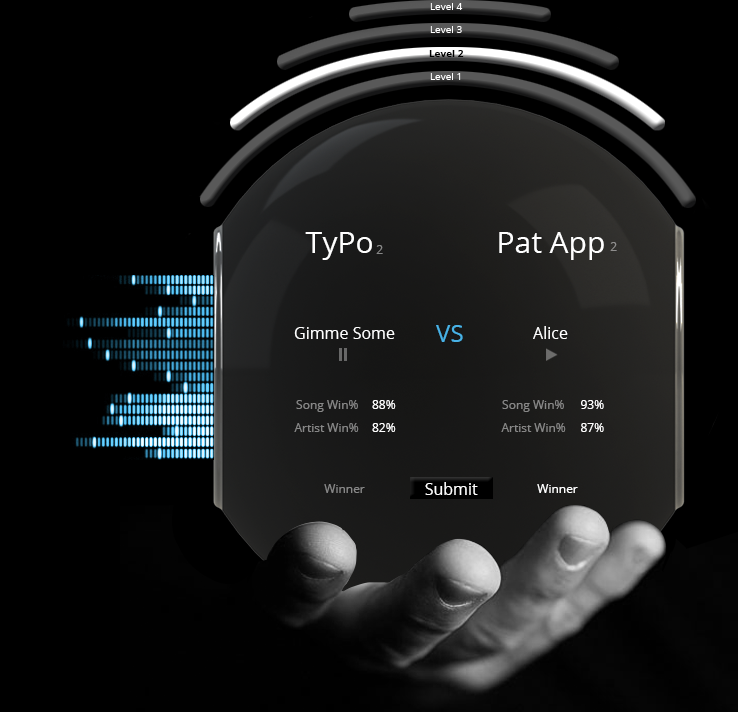
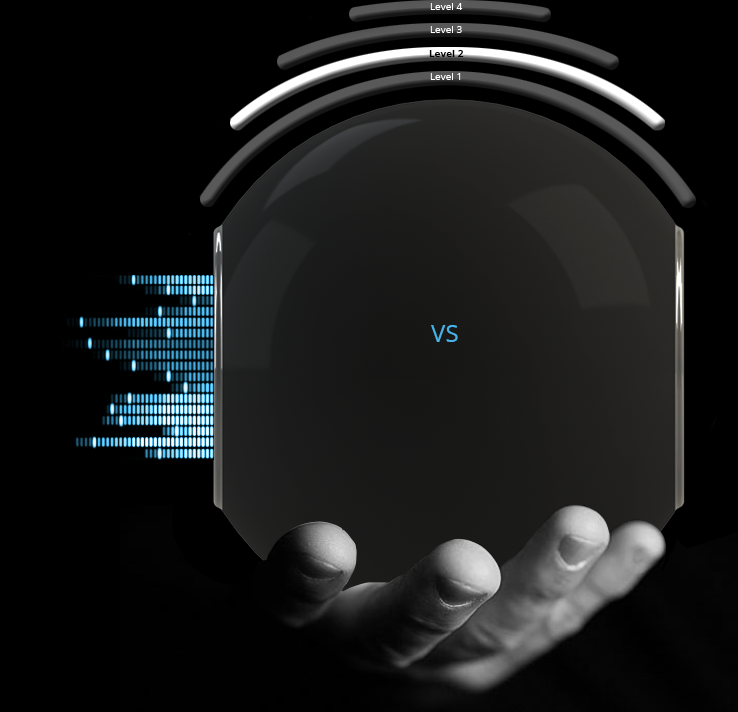
matchup back is in

diff --git a/templates/matchups.html b/templates/matchups.html
@@ -1,9 +1,11 @@
 {% extends "app.html" %}
 
 {% block content %}
+<div id='matchups'>
 	<div id='songbay' value='0'></div>
 
 	<div id='matchupsui'>
+		<img src='/images/matchupback.png' alt='...'>
 		<table>
 			<tr id='artistnames'>
 				<td id='aname1' class='aname'>A Name 1</td>
@@ -12,13 +14,13 @@
 			</tr>
 			<tr>
 				<td id='songname1' class='songname'>songname1</td>
-				<td>VS</td>
+				<td style='color:#03b1e9;text-align:center;padding:0 10px'> </td>
 				<td id='songname2' class='songname'>songname2</td>
 			</tr>
 			<tr>
-				<td><div id='playbutton1' class='matchup-playbutton' onclick="javascript:playSong('1');return false;" value='deselected'>Play</div></td>
+				<td><div id='playbutton1' class='playbutton' onclick="javascript:playSong('1');return false;" value='deselected'>Play</div></td>
 				<td></td>
-				<td><div id='playbutton2' class='matchup-playbutton' onclick="javascript:playSong('2');return false;" value='deselected'>Play</div></td>
+				<td><div id='playbutton2' class='playbutton' onclick="javascript:playSong('2');return false;" value='deselected'>Play</div></td>
 			</tr>
 			<tr>
 				<td id='songwinp1' class='songwinp'>Song Win%:  X%</td>
@@ -31,15 +33,14 @@
 				<td id='artistwinp2' class='artistwinp'>Artist Win%: X%</td>
 			</tr>
 			<tr>
-				<td><div id='winbutton1' class='matchup-winbutton' onclick="javascript:chooseWinner('1');return false;" value='deselected'>Winner</div></td>
+				<td><div id='winbutton1' class='winbutton' onclick="javascript:chooseWinner('1');return false;" value='deselected'>Winner</div></td>
 				<td></td>
-				<td><div id='winbutton2' class='matchup-winbutton' onclick="javascript:chooseWinner('2');return false;" value='deselected'>Winner</div></td>
-			</tr>
-			<tr>
-				<td><div id='matchupSubmit' onclick="javascript:submitMatchup();return false;" value='none'>Submit</div></td>
+				<td><div id='winbutton2' class='winbutton' onclick="javascript:chooseWinner('2');return false;" value='deselected'>Winner</div></td>
 			</tr>
 		</table>
+		<div id='matchupSubmit' onclick="javascript:submitMatchup();return false;" value='none'>Submit</div>
 	</div>
+</div>
 
 	<script>
 		$(document).ready(function() {

diff --git a/css/app.css b/css/app.css
@@ -32,7 +32,12 @@ img{height:100%;}
 #profile{padding-top:100px;}
 
 /*Matchup Styles*/
-#matchupsui{position:absolute;top:30%;left:50%;transform:translate(-50%,-50%);max-width:100vw;padding-top:60px;}
+#matchupsui{padding-top:50px;max-width:100vw;font-size:85%;text-align:center;}
+#matchupsui img{display:block;}
+#matchupsui table{position:absolute;top:30%;left:35%;width:350px;}
+#matchups .aname{font-size:150%;padding-bottom:30px;}
+#matchups .playbutton{padding-bottom:30px;}
+#matchups .winbutton{padding-top:30px;}
 
 
 @media screen and (min-width: 1200px){
@@ -54,7 +59,7 @@ img{height:100%;}
 	#mainav_wrapper ul{position:absolute;top:125px;left:0;display:block;padding:0;height:calc(100vh - 125px);z-index:1;background-color:black;width:calc(100vw - 40px);max-width:400px;border-right:solid 2px white;}
 	#mainav_wrapper li{display:list-item;margin:0;max-height:calc((100vh - 140px)/11);}
 	#maimnav_head{position:absolute;top:0;left:0;display:block;background-color:darkgreen;height:125px;z-index:1;width:calc(100vw - 40px);max-width:400px;border-right:solid 2px white;}
-	#maimnav_close{background-color:lightblue;width:40px;height:40px;float:right;}
+	#maimnav_close{width:40px;height:40px;float:right;}
 	#maidesktop_wrapper{display:none;}
 	#maicontent{left:0;width:100%;}
 }

diff --git a/css/home.css b/css/home.css
@@ -33,7 +33,7 @@ img{height:100%;}
 #iash_wrapper{position:relative;}
 
 /*esf styles*/
-#esf{padding-top:100px;text-align:center;}
+#esf{min-height:calc(100vh - 100px);padding-top:100px;text-align:center;background-image:url('/images/openerback.png');background-repeat:no-repeat;background-size:100%;}
 #emailform{margin:0 auto;width:500px;max-width:90vw;}
 
 

diff --git a/starvingsounds.py b/starvingsounds.py
@@ -153,7 +153,7 @@ class Home(BaseHandler):
 
 class Matchups(BaseHandler):
     matchup1 = '1;Griz,Fine Way To Die,11,2,18,3;Chemical Brothers,Galvanize,11,3,15,2'
-    matchup2 = '1;Griz,Stop Trippin,12,1,18,3;Jungle,Busy Earning,11,1,17,3'
+    matchup2 = '1;Jungle,Busy Earning,11,1,17,3;Griz,Stop Trippin,12,1,18,3'
     matchup3 = '1;Kendrick Lamar,The Blacker The Berry,10,1,12,1;Jay Z,Justify My Thug,9,1,15,2'
     matchup4 = '2;Jungle,Time,10,2,17,3;Mark E Bassy,Relapse,8,2,10,3'
     
